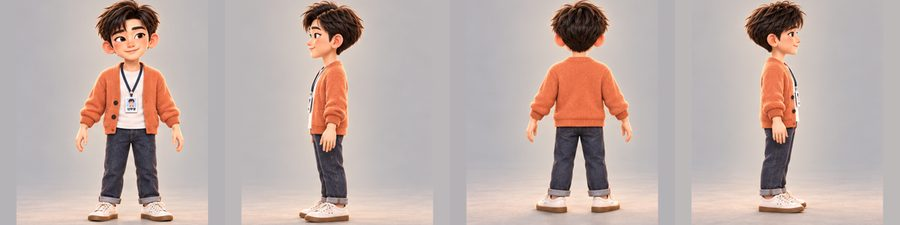
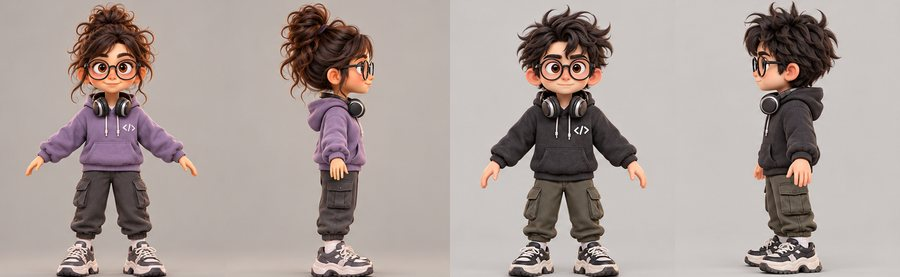
제작 노트: 줄 길이·줄 균형 정리, 빨리 감기 속도 낮춤, 과정 사진을 주인공으로, 마지막 패치 3D
Claude-Session: https://claude.ai/code/session_01BueasgGQmRtyXhrL84PwBv

diff --git a/index.html b/index.html
@@ -96,9 +96,9 @@ h1 span{display:block;color:#ffcf7a}
 .roll .sub2{font-family:var(--display);font-size:20px;color:#b9afd2;margin-top:14px;letter-spacing:.08em}
 .roll .maker{margin-top:56px;font-size:15px;color:#cfc6e3;line-height:1.9}
 .roll .maker b{display:block;font-family:var(--display);font-weight:400;font-size:28px;color:#fff;margin-top:4px}
-.roll p{color:#ddd5ec;text-wrap:pretty;margin-top:18px}
-.roll p.lead{font-family:var(--display);font-size:21px;color:#fff;margin-top:0}
-.roll .three{margin:22px auto 6px;display:grid;gap:10px;max-width:520px}
+.roll p{color:#ddd5ec;max-width:27em;margin:18px auto 0;text-wrap:balance}
+.roll p.lead{font-family:var(--display);font-size:21px;color:#fff;margin-top:0;max-width:none}
+.roll .three{margin:22px auto 10px;display:grid;gap:10px;max-width:25em}
 .roll .three div{background:rgba(255,255,255,.05);border:1px solid rgba(255,255,255,.1);border-radius:14px;padding:10px 16px;font-size:15.5px;line-height:1.6}
 .roll .three b{font-family:var(--display);font-weight:400;font-size:18px;color:#ffcf7a}
 .roll .tool{font-family:var(--display);font-weight:400;color:#ffcf7a}
@@ -139,10 +139,11 @@ h1 span{display:block;color:#ffcf7a}
 .staff i{width:1px;height:12px;background:rgba(255,255,255,.2)}
 .staff b{text-align:left;font-family:var(--display);font-weight:400;font-size:20px;color:#fff}
 .staff .gap{height:14px}
-.roll .quote{font-family:var(--display);font-size:22px;line-height:1.7;color:#fff}
+.roll .quote{font-family:var(--display);font-size:22px;line-height:1.75;color:#fff;max-width:none}
 .finale{min-height:72vh;display:flex;flex-direction:column;align-items:center;justify-content:center;margin-bottom:0!important}
-.finale .cat{width:96px;height:96px;border-radius:50%;object-fit:cover;border:2px solid rgba(255,255,255,.2);transition:transform 2.6s cubic-bezier(.5,0,.8,.4),opacity 2.6s}
-.finale.go .cat{transform:translateX(60vw) rotate(8deg);opacity:0}
+.finale .cat{height:min(240px,30vh);width:auto;filter:drop-shadow(0 18px 24px rgba(0,0,0,.55));opacity:0;transform:translateY(18px);transform-origin:50% 100%;transition:opacity 1.4s,transform 1.4s cubic-bezier(.2,.8,.3,1)}
+.finale.go .cat{opacity:1;transform:none;animation:breathe 3.2s ease-in-out 1.4s infinite}
+@keyframes breathe{50%{transform:scaleY(1.025) scaleX(.99)}}
 .finale .paws{height:26px;margin-top:6px;font-size:16px;letter-spacing:14px;opacity:0;transition:opacity 1.4s .8s}
 .finale.go .paws{opacity:.7}
 .finale .end{font-family:var(--display);font-size:46px;color:#ffcf7a;letter-spacing:.12em;margin-top:24px}
@@ -154,7 +155,7 @@ h1 span{display:block;color:#ffcf7a}
 #crEnd{position:absolute;left:50%;bottom:calc(64px + env(safe-area-inset-bottom,0px));transform:translateX(-50%);font-size:13.5px;color:#d9d2ea;opacity:0;transition:opacity .8s;pointer-events:none}
 #crEnd.on{opacity:1;animation:blink 2s ease-in-out infinite}
 @keyframes blink{50%{opacity:.45}}
-@media (max-width:620px){.roll{font-size:15px}.roll .pair{grid-template-columns:1fr}.staff div{grid-template-columns:1fr;gap:0}.staff span,.staff b{text-align:center}.staff i{display:none}.vname{font-size:40px}#crHint{display:none}}
+@media (max-width:620px){.roll{font-size:15px}.roll p{max-width:22em}.roll .quote{font-size:19px}.roll .pair{grid-template-columns:1fr}.staff div{grid-template-columns:1fr;gap:0}.staff span,.staff b{text-align:center}.staff i{display:none}.vname{font-size:40px}#crHint{display:none}}
 @media (hover:none){#crHint{display:none}}
 @media (prefers-reduced-motion:reduce){#ovCredit,.cast em,.finale .cat,.vname *{transition:none!important;animation:none!important}}
 </style>
@@ -223,9 +224,11 @@ h1 span{display:block;color:#ffcf7a}
         <div>셋째, 기술을 어떤 마음으로 쓸지는<br>사람이 정한다는 <b>AI 윤리</b>.</div>
       </div>
       <p>이것들을 말로 설명하기보다 직접 겪어 보게 하면 좋겠다고 생각했습니다. 그래서 게임을 이렇게 기획했습니다.</p>
-      <p>보안 기술은 60초 안에 어떤 장비를 챙길지 고르는 준비 단계와 방화벽, 출입 통제, 단말 방어 같은 미니게임으로 손에 익히도록 했습니다. 사람을 노리는 속임수는 남의 출입증을 빌려 쓴 사람, 요청한 적 없는 수리 기사, 상자 속 수상한 USB, 길에서 주운 비밀번호 수첩 같은 장면으로 만들었습니다.</p>
+      <p>보안 기술은 60초 안에 어떤 장비를 챙길지 고르는 준비 단계와 방화벽, 출입 통제, 단말 방어 같은 미니게임으로 손에 익히도록 했습니다.</p>
+      <p>사람을 노리는 속임수는 남의 출입증을 빌려 쓴 사람, 요청한 적 없는 수리 기사, 상자 속 수상한 USB, 길에서 주운 비밀번호 수첩 같은 장면으로 만들었습니다.</p>
       <p>AI 리터러시는 다급하게 걸려 온 대표님의 영상통화가 진짜인지 가려내고, AI 비서 픽스가 요약한 자료 속 지어낸 문장을 원본과 비교해 찾아내는 활동에 담았습니다.</p>
-      <p>AI 윤리는 정답이 없는 선택으로 녹였습니다. 픽스에게 얼마나 맡길지, 의심 가는 직원을 어디까지 막을지 스스로 정하게 했습니다. 그 선택들이 쌓여 서로 다른 엔딩으로 이어지도록 해서, 결과를 통해 자기 판단을 돌아볼 수 있게 했습니다.</p>
+      <p>AI 윤리는 정답이 없는 선택으로 녹였습니다. 픽스에게 얼마나 맡길지, 의심 가는 직원을 어디까지 막을지 스스로 정하게 했습니다.</p>
+      <p>그 선택들이 쌓여 서로 다른 엔딩으로 이어지도록 해서, 결과를 통해 자기 판단을 돌아볼 수 있게 했습니다.</p>
       <p>그리고 이 게임 역시 AI와 함께 만들었습니다. AI를 두려워하거나 전부 맡겨 버리지 않고, 사람이 방향을 정하고 AI를 잘 쓰는 모습을 직접 보여 주고 싶었습니다.</p>
     </section>
 
@@ -234,9 +237,9 @@ h1 span{display:block;color:#ffcf7a}
       <p>가장 먼저 60초의 준비와 일주일의 방어라는 이야기의 뼈대를 세우고, 선택에 따라 달라지는 엔딩들을 정했습니다.</p>
       <figure class="tall"><img src="assets/credits/story.jpg" alt="엔딩 도감 화면" loading="lazy"></figure>
       <p>다음으로 <span class="tool">GPT</span>를 통해 캐릭터와 사무실, 숨겨진 벙커의 모습을 그림으로 먼저 그려 보았습니다.</p>
-      <figure><img src="assets/credits/art.jpg" alt="캐릭터 그림" loading="lazy"></figure>
+      <figure><img src="assets/credits/art.jpg" alt="주인공 홍채린과 서보안 그림" loading="lazy"></figure>
       <p>그 그림을 <span class="tool">Tripo</span>에 넣어 3D 모델로 세웠고, <span class="tool">Mixamo</span>로 뼈대를 넣어 걷고 숨 쉬는 움직임을 입혔습니다.</p>
-      <figure class="tall"><img src="assets/credits/model.jpg" alt="3D 캐릭터 모델" loading="lazy"></figure>
+      <figure><img src="assets/credits/model.jpg" alt="주인공 홍채린과 서보안 3D 모델" loading="lazy"></figure>
       <p>마지막으로 <span class="tool">Claude</span>와 함께 게임 전체의 코드를 짜고 폴더를 정리하며 장면과 미니게임을 하나로 엮었습니다.</p>
       <figure class="pair"><div><img src="assets/credits/office_old.jpg" alt="처음 사무실" loading="lazy"><figcaption>처음</figcaption></div><div><img src="assets/credits/office_new.jpg" alt="지금 사무실" loading="lazy"><figcaption>지금</figcaption></div></figure>
       <p>그 뒤로는 직접 플레이하며 고치고 또 고쳤습니다. 어려운 곳은 쉽게, 헷갈리는 곳은 분명하게 다듬어 지금의 모습이 되었습니다.</p>
@@ -270,13 +273,13 @@ h1 span{display:block;color:#ffcf7a}
 
     <section>
       <div class="lbl">제작자의 말</div>
-      <p class="quote">이 게임에서 고른 선택들이<br>언젠가 진짜 화면 앞에서 여러분을 지켜 주길 바랍니다.<br>끝까지 함께해 줘서 고마워요.</p>
+      <p class="quote">이 게임에서 고른 선택들이<br>언젠가 진짜 화면 앞에서<br>여러분을 지켜 주길 바랍니다.</p>
+      <p class="quote" style="margin-top:22px">끝까지 함께해 줘서 고마워요.</p>
     </section>
 
     <section class="finale" id="crFin">
-      <img class="cat" src="assets/npc/patch_happy.jpg" alt="">
-      <div class="paws">🐾🐾🐾</div>
-      <p class="note2">패치가 하품을 하며 화면 밖으로 걸어 나가요.</p>
+      <img class="cat" src="assets/credits/patch3d.png" alt="고양이 패치">
+      <div class="paws">🐾 🐾 🐾</div>
       <div class="end">THE END</div>
     </section>
   </div></div>
@@ -363,7 +366,7 @@ function closeCredit() { if (!CR.on) return; CR.on = false; cancelAnimationFrame
 function crTick(now) {
   if (!CR.on) return; const dt = Math.min(0.05, (now - CR.last) / 1000); CR.last = now;
   const max = crView.scrollHeight - crView.clientHeight;
-  if (!RM && crView.scrollTop < max - 1) { CR.acc += dt * (CR.fast ? 360 : 52); const n = Math.floor(CR.acc); if (n) { crView.scrollTop += n; CR.acc -= n; } }
+  if (!RM && crView.scrollTop < max - 1) { CR.acc += dt * (CR.fast ? 170 : 52); const n = Math.floor(CR.acc); if (n) { crView.scrollTop += n; CR.acc -= n; } }
   const H = innerHeight;
   crView.querySelectorAll('.cast .p:not(.lit)').forEach((el, i) => { if (el.getBoundingClientRect().top < H * 0.62) setTimeout(() => el.classList.add('lit'), CR.fast ? 80 : 700); });
   const v = $('crVil'); if (!CR.vil && v.getBoundingClientRect().top < H * 0.5) {
@@ -372,7 +375,7 @@ function crTick(now) {
     setTimeout(() => { v.classList.remove('glitch'); v.classList.add('s2'); sound.play('alert'); }, 1500 * k);
     setTimeout(() => v.classList.add('s3'), 3200 * k);
   }
-  const f = $('crFin'); if (!CR.fin && f.getBoundingClientRect().top < H * 0.35) { CR.fin = true; setTimeout(() => f.classList.add('go'), 900); }
+  const f = $('crFin'); if (!CR.fin && f.getBoundingClientRect().top < H * 0.75) { CR.fin = true; setTimeout(() => f.classList.add('go'), 200); }
   if (!CR.done && crView.scrollTop >= max - 2) { CR.done = true; setTimeout(() => CR.on && $('crEnd').classList.add('on'), 1600); }
   CR.raf = requestAnimationFrame(crTick);
 }
